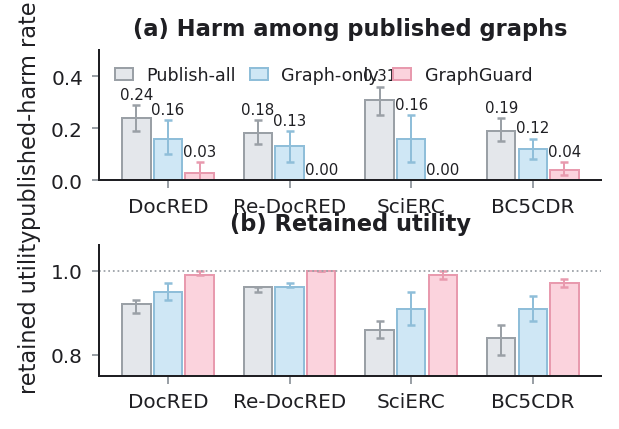
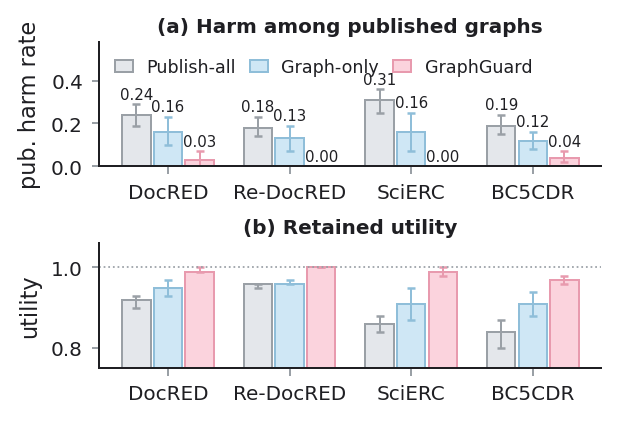
figs: smaller panel titles and shortened ylabels in release-gate figure

diff --git a/scripts/make_gate_figure.py b/scripts/make_gate_figure.py
@@ -69,14 +69,14 @@ def panel(ax, data, ylabel, ylim, annotate=True):
 def main() -> int:
     _S.apply_rc(font_size=9)
     fig, (ax1, ax2) = plt.subplots(2, 1, figsize=(3.6, 2.35),
-                                   gridspec_kw={"hspace": 0.5})
-    panel(ax1, HARM, "published-harm rate", (0, 0.50))
+                                   gridspec_kw={"hspace": 0.62})
+    panel(ax1, HARM, "pub. harm rate", (0, 0.58))
     ax1.legend(fontsize=7, ncol=3, frameon=False, loc="upper left",
                handlelength=1.0, columnspacing=0.8)
-    ax1.set_title("(a) Harm among published graphs", fontsize=9, fontweight="bold")
-    panel(ax2, UTIL, "retained utility", (0.75, 1.06), annotate=False)
+    ax1.set_title("(a) Harm among published graphs", fontsize=8, fontweight="bold", pad=4)
+    panel(ax2, UTIL, "utility", (0.75, 1.06), annotate=False)
     ax2.axhline(1.0, color=_S.GRAY, linestyle=":", linewidth=0.7)
-    ax2.set_title("(b) Retained utility", fontsize=9, fontweight="bold")
+    ax2.set_title("(b) Retained utility", fontsize=8, fontweight="bold", pad=4)
 
     out = ROOT / "assets" / "figures" / "fig_gate.png"
     _S.save_fig(fig, out)
